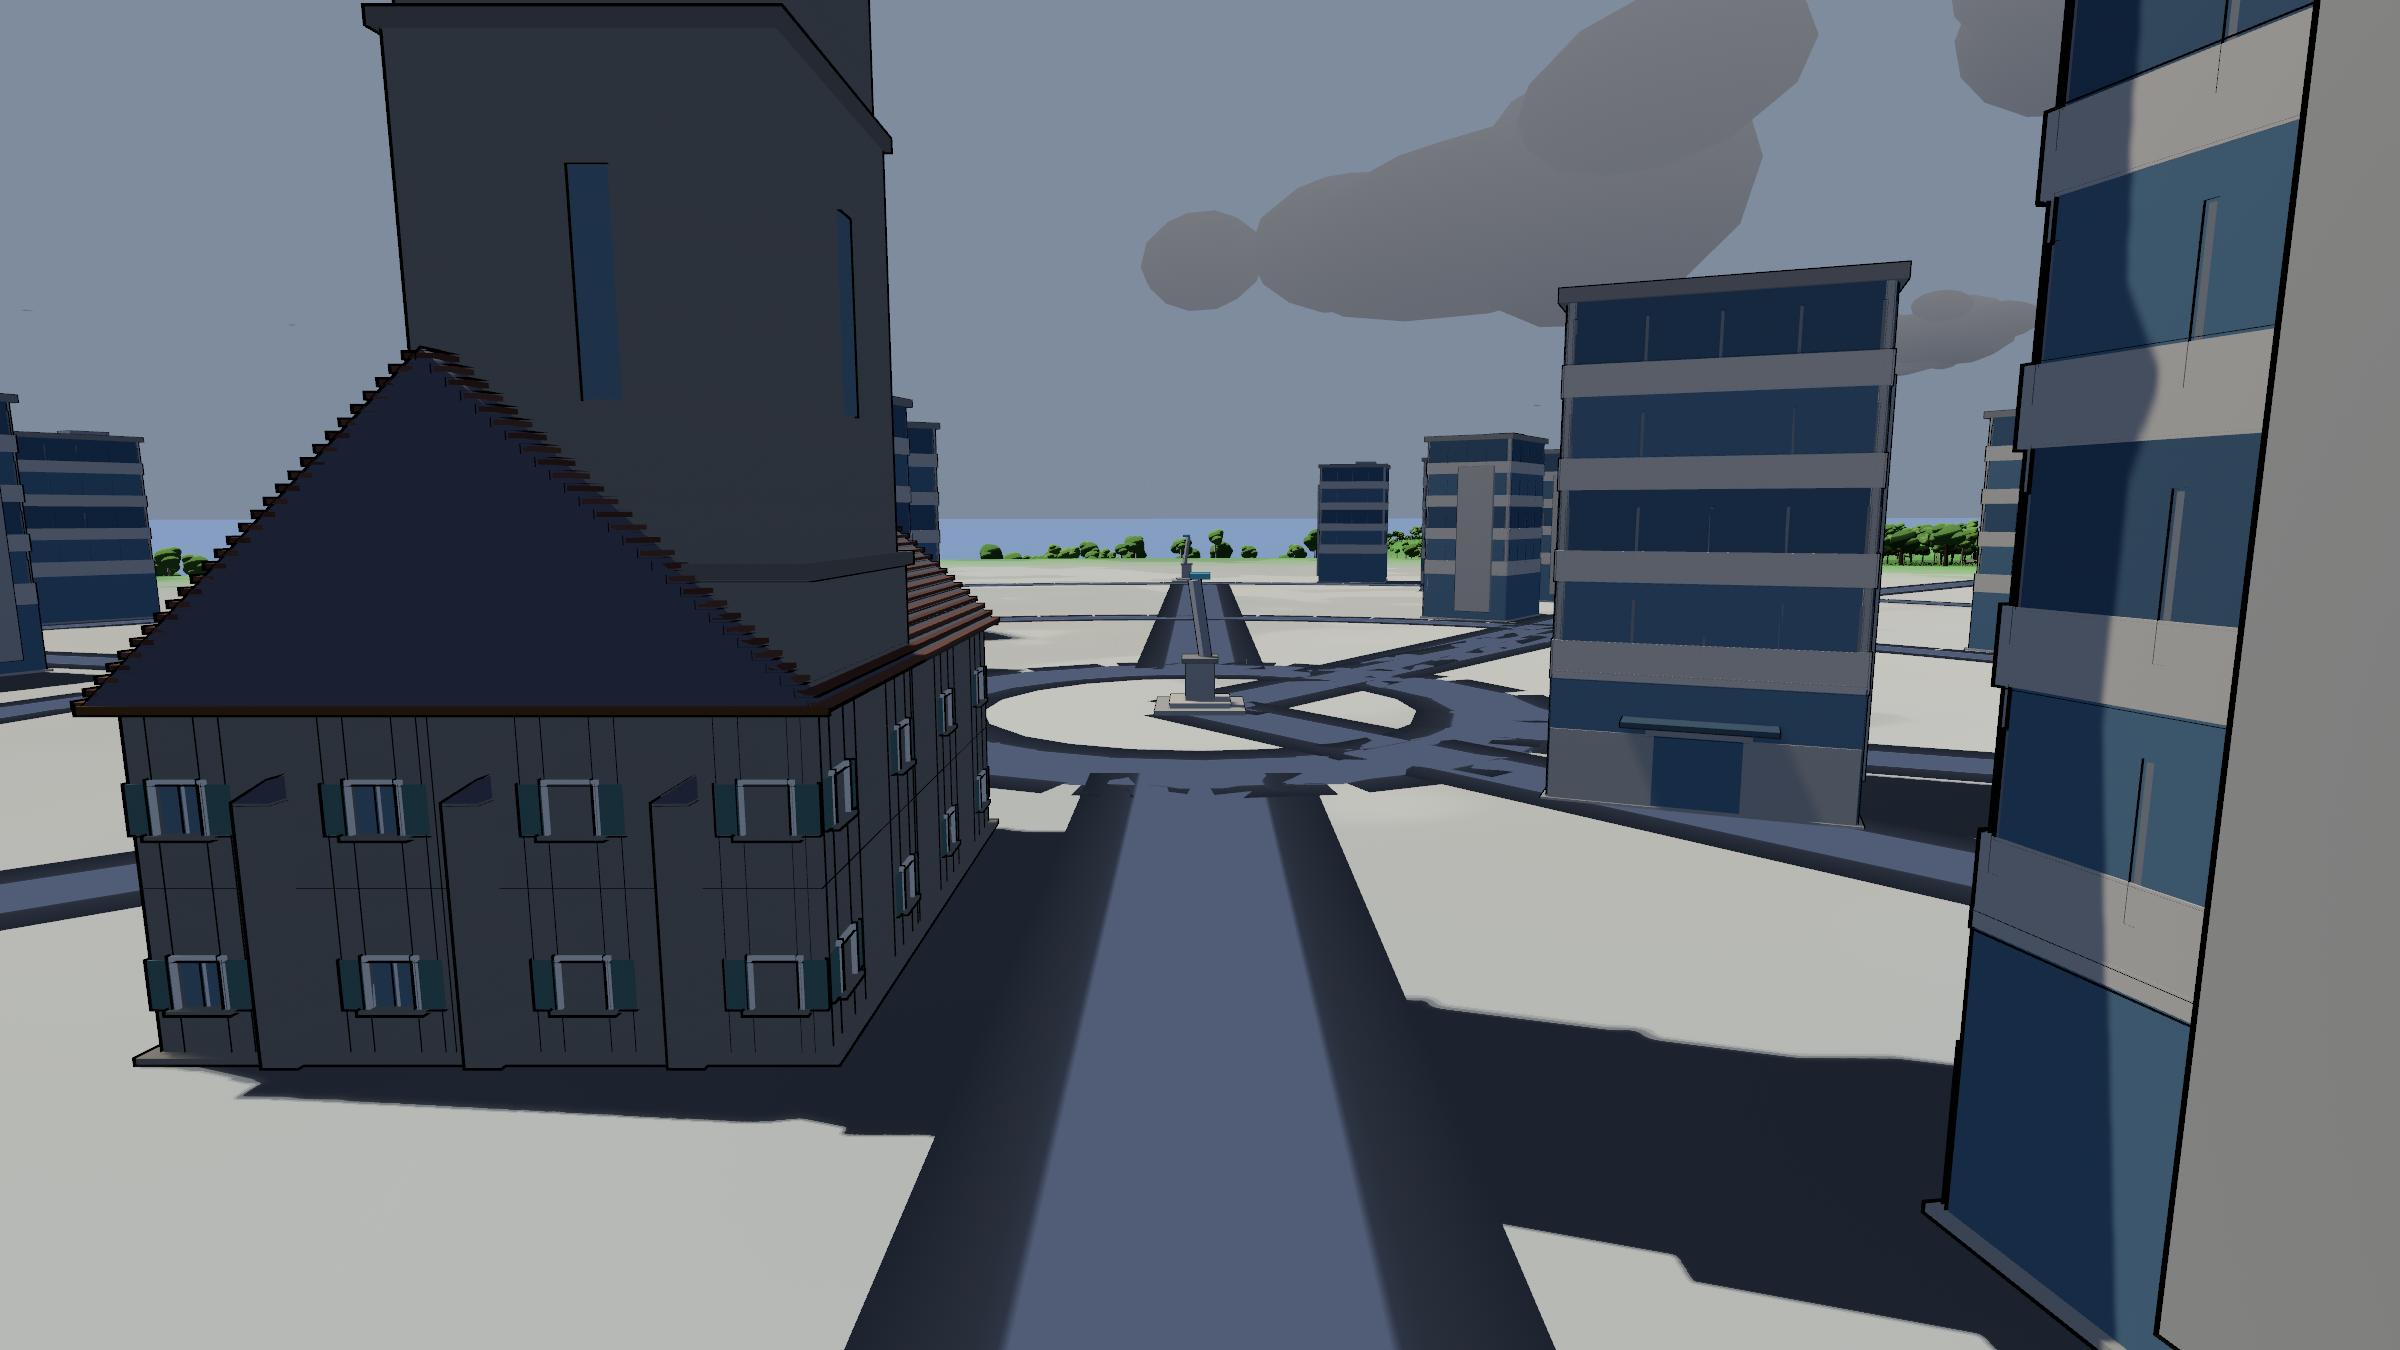
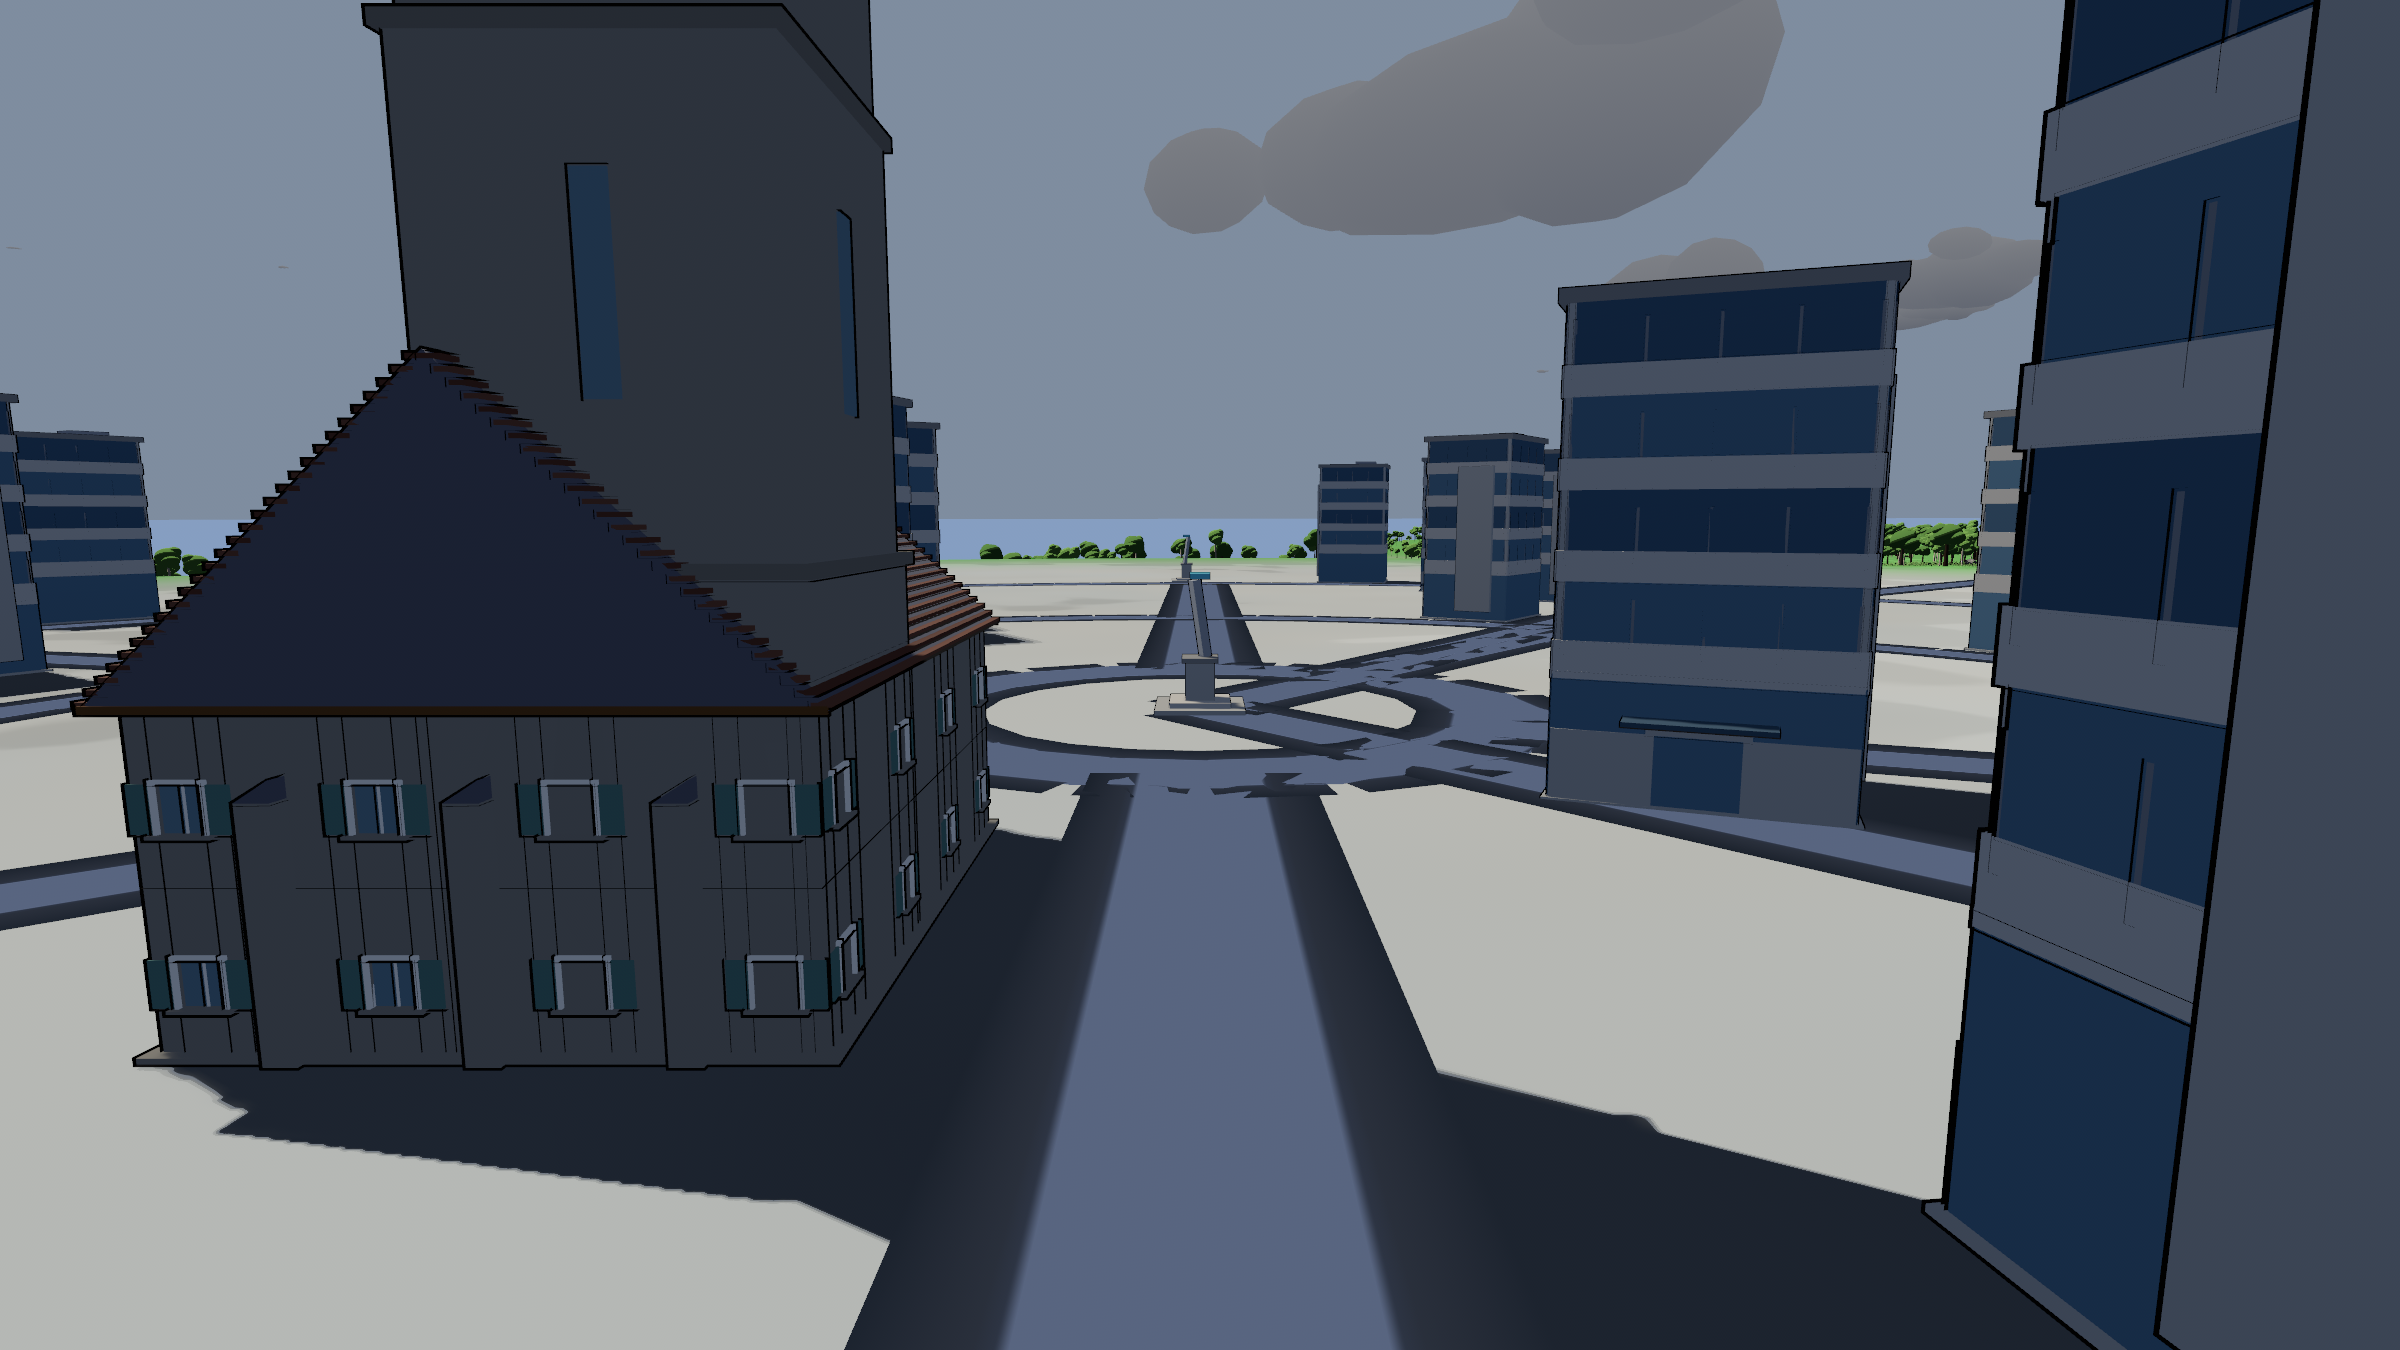
Freeze the world for a photograph, and stand in the canyon to take one
Codex's process finding, and it is right: the shot matrix fixed the viewpoint and
left the clock and the weather running, so one run came back rainy and overcast
and the next bright. Every difference in haze, cloud, shadow length and rain
streaks then reads as a change to whatever was being reviewed. Photographs are
evidence, and two are only comparable if the only thing that differs is the
subject.

Every photograph is now taken at a fixed noon in clear weather. Noon rather than
a prettier hour: shadows are short so nothing hides in them, and it is the one
hour nobody has to reproduce by eye. --live puts the clock and the weather back
for when the weather is the subject.

Three player-height canyon shots join the matrix, as asked. Two goes at placing
them. The first stood at the massif's MIDDLE, which is not the canyon's - the
floor winds two hundred metres either side on the way through - so the warden
stood on the plain beside it and the shot showed anything but the slot;
way_through is the centreline and stops being test-only. The second pulled the
camera 34 m back inside a 38 m slot and buried it in rock, so the lower half of
the frame was the inside of a cliff. A shot has to be sized to the space it is
taken in.

diff --git a/src/photo.rs b/src/photo.rs
@@ -73,6 +73,19 @@ pub struct Photo {
     pub settle: u32,
     /// Whether to pull the map up before the shutter goes.
     pub map: bool,
+    /// Whether to let the world's own clock and weather run.
+    ///
+    /// Off by default, and that is the point. A photograph is EVIDENCE, and two
+    /// photographs of the same place are only comparable if the only thing that
+    /// changed between them is the thing being judged. Left to itself the game
+    /// follows the real clock and rolls its own weather, so the matrix came back
+    /// rainy and overcast one run and bright the next - and every difference in
+    /// haze, cloud, shadow length and rain streaks reads as a change to whatever
+    /// was being reviewed.
+    ///
+    /// `--live` puts the clock and the weather back, for the times when the weather
+    /// IS the subject.
+    pub live: bool,
 }
 
 impl Photo {
@@ -113,6 +126,7 @@ impl Photo {
 
         let settle = value("--settle").and_then(|v| v.parse().ok()).unwrap_or(240);
         let map = args.iter().any(|arg| arg == "--map");
+        let live = args.iter().any(|arg| arg == "--live");
 
         // A whole matrix, filled in from the world once it exists.
         if let Some(folder) = value("--matrix") {
@@ -122,6 +136,7 @@ impl Photo {
                 out: PathBuf::new(),
                 settle,
                 map,
+                live,
             });
         }
 
@@ -144,6 +159,7 @@ impl Photo {
                 .unwrap_or_else(|| PathBuf::from("dev/art/shots/game.png")),
             settle,
             map,
+            live,
         })
     }
 }
@@ -304,6 +320,36 @@ pub fn fill_the_matrix(
         );
     }
 
+    // THE CANYON, at head height and from inside it.
+    //
+    // A high oblique shows the geography and answers none of the questions worth
+    // asking about a gate: whether the mouths read as the only way through, whether
+    // the walls feel close from the follow camera, and whether the heightfield's
+    // edge combs where you can see it. Three shots, both mouths and the turn
+    // between them, taken from where a warden's eyes are.
+    {
+        use crate::world::pass::way_through;
+        // ON THE FLOOR, which is not the massif's middle: the canyon winds two
+        // hundred metres either side on the way through, so a shot placed at the
+        // middle of the rock stands on the plain beside it and shows anything but
+        // the slot. `way_through` is the centreline itself.
+        let reach = 300.0;
+        for (name, at, look) in [
+            ("canyon_west_mouth", -reach, 1.0_f32),
+            ("canyon_inside", 0.0, 1.0),
+            ("canyon_east_mouth", reach, -1.0),
+        ] {
+            let here = way_through(at);
+            // Facing along the canyon, so the camera looks down it rather than at a
+            // wall: the eye sits back the way the warden came.
+            let ahead = (way_through(at + 40.0 * look) - here).normalize_or(Vec2::Y);
+            // Close behind. The slot is 38 m wall to wall, so a 34 m pull-back puts
+            // the camera IN the rock and the lower half of the frame is the inside
+            // of a cliff. A shot has to be sized to the space it is taken in.
+            add(name, here, -ahead, 2.4, 12.0);
+        }
+    }
+
     // The longest bridge: its entrance and its middle, which is the shot that says
     // whether a kilometre of crossing has anything to look at along it.
     if let Some(bridge) = plan
@@ -400,6 +446,36 @@ fn start_playing(mut next: ResMut<NextState<crate::states::AppState>>) {
     next.set(crate::states::AppState::Playing);
 }
 
+/// The hour every photograph is taken at, unless `--live` says otherwise.
+///
+/// Noon rather than a pretty hour. The sun is at its highest, so shadows are short
+/// and nothing is lost in them, and it is the one hour that cannot be confused with
+/// any other - a shot at "about four" is a shot whose lighting nobody can reproduce.
+const EVIDENCE_HOUR: f32 = 12.0;
+
+/// Holds the clock and the sky still, so two photographs differ only by their subject.
+///
+/// Every frame, for the reason the camera override is every frame: the game's own
+/// systems will happily move both back.
+pub fn hold_the_world_still(
+    photo: Res<Photo>,
+    mut clock: ResMut<crate::sky::TimeOfDay>,
+    mut weather: ResMut<crate::weather::TheWeather>,
+) {
+    if photo.live {
+        return;
+    }
+    clock.follows_clock = false;
+    clock.nudge = 0.0;
+    clock.hours = EVIDENCE_HOUR;
+
+    weather.follows_clock = false;
+    weather.falling = crate::weather::Falling::Nothing;
+    weather.fall = 0.0;
+    weather.overcast = 0.0;
+    weather.wind = 0.15;
+}
+
 /// Pulls the map up, when the photograph is meant to be of the map.
 fn open_the_map(photo: Res<Photo>, mut open: ResMut<crate::map::Open>) {
     if photo.map {
@@ -421,6 +497,7 @@ impl Plugin for PhotoPlugin {
             .add_systems(
                 Update,
                 (
+                    hold_the_world_still,
                     fill_the_matrix,
                     open_the_map,
                     stand_the_warden_there,

diff --git a/src/world/pass.rs b/src/world/pass.rs
@@ -214,7 +214,11 @@ fn fork(along: f32) -> Option<f32> {
 /// refuses the walls. Nothing in the game routes itself yet; when something does
 /// (a road, an NPC crossing east), this is what it should ask rather than
 /// rediscovering the centreline.
-#[cfg(test)]
+///
+/// No longer test-only: `photo`'s shot matrix stands in the canyon with it. The
+/// massif's middle is not the canyon's middle - the floor winds two hundred metres
+/// either side on the way through - so a shot placed at `AT` stands on rock, or on
+/// the plain beside it, and shows anything but the slot.
 pub fn way_through(along: f32) -> Vec2 {
     let (sin, cos) = HEADING.sin_cos();
     AT + Vec2::new(cos, sin) * along + Vec2::new(-sin, cos) * wander(along)

diff --git a/codex-suggestions/CLAUDE_REPLY.md b/codex-suggestions/CLAUDE_REPLY.md
@@ -115,6 +115,45 @@ Per item:
   rectangular towers and nothing on the approach says which one to walk to. Worth doing, and
   now testable against a fixed shot.
 
+### 2026-08-29 — Freeze the environment (CODEX_REPLY)
+
+- **Status:** accepted and implemented
+- **Decision:** every photograph is now taken at a fixed noon with clear weather.
+  `--live` puts the clock and the weather back for when weather IS the subject.
+- **Reason:** correct, and I had been suffering from it without naming it - the
+  matrix came back rainy one run and bright the next, and every difference in haze,
+  cloud, shadow length and rain streaks read as a change to whatever was under
+  review. Noon rather than a prettier hour: shadows are short so nothing hides in
+  them, and it is the one hour nobody has to reproduce by eye.
+- **Also added:** three player-height canyon shots to the matrix, as asked -
+  `canyon_west_mouth`, `canyon_inside`, `canyon_east_mouth`. Two goes: the first
+  stood at the massif's MIDDLE, which is not the canyon's - the floor winds two
+  hundred metres either side - so the warden was out on the plain beside it.
+  `way_through` gives the centreline and stops being test-only. The second pulled
+  the camera 34 m back inside a 38 m slot and buried it in rock; a shot has to be
+  sized to the space it is taken in.
+- **Not done:** the slow walk through. Worth having, and it wants video rather than
+  stills, so it is a separate piece of work.
+
+### 2026-08-29 — Persistence audit (CODEX_REPLY)
+
+- **Status:** noted, and the standing rule accepted.
+- Nothing to do: the audit found no second load-time transform without an inverse.
+  The rule - any paired reader that changes units, scale, origin, axis order or
+  coordinate space gets a `read(write(x)) == x` test over every transformed field -
+  is the right shape and is what `a_sheet_survives_the_round_trip` now is.
+
+### 2026-08-29 — Snow on the massif
+
+- **Status:** complete, from the user rather than the review
+- Its top stands 170 m and the snow line is 165, so a desert mesa wore a white cap.
+  Suppressed on the massif itself rather than by moving the snow line, which would
+  have taken the cap off the great mountain too - snow is meant to mean THE
+  mountain. Caught a process failure on the way: the first build failed with two
+  errors (`lift` was `#[cfg(test)]`, so the test build passed and the game build did
+  not), I read the error COUNT as a success, and photographed a stale binary that
+  still had the snow on it.
+
 ### 2026-08-29 — V2, V3, V7 and G1–G4
 
 - **Status:** deferred, pending the user's direction
